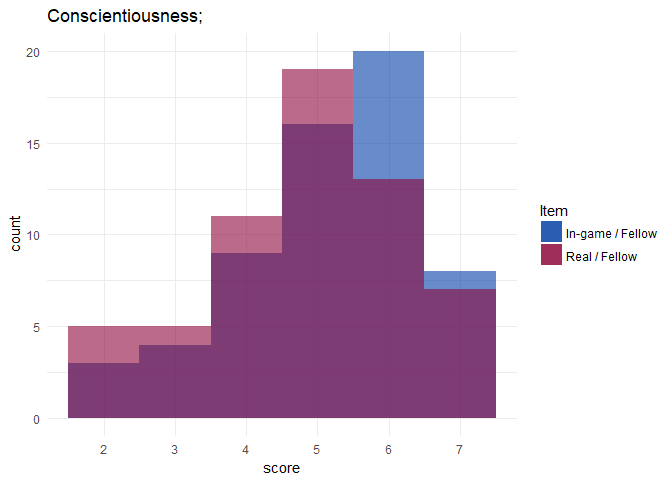
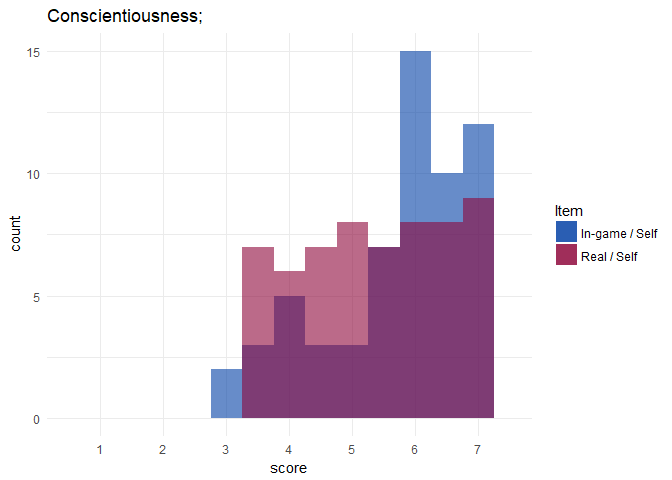
Update: scale and typo

diff --git a/report/report_1205.md b/report/report_1205.md
@@ -16,18 +16,24 @@ December 5, 2017
     -   [Conscientiousness](#conscientiousness-1)
     -   [Emotion stability](#emotion-stability-1)
     -   [Openness](#openness-1)
--   [In-game - Real - ideal / self](#in-game---real---ideal-self)
+-   [In-game - real - ideal / self](#in-game---real---ideal-self)
     -   [Extraversion](#extraversion-2)
     -   [Agreeableness](#agreeableness-2)
     -   [Conscientiousness](#conscientiousness-2)
     -   [Emotion stability](#emotion-stability-2)
     -   [Openness](#openness-2)
--   [In-game - Real / fellow](#in-game---real-fellow)
+-   [In-game - real / self](#in-game---real-self)
     -   [Extraversion](#extraversion-3)
     -   [Agreeableness](#agreeableness-3)
     -   [Conscientiousness](#conscientiousness-3)
     -   [Emotion stability](#emotion-stability-3)
     -   [Openness](#openness-3)
+-   [In-game - real / fellow](#in-game---real-fellow)
+    -   [Extraversion](#extraversion-4)
+    -   [Agreeableness](#agreeableness-4)
+    -   [Conscientiousness](#conscientiousness-4)
+    -   [Emotion stability](#emotion-stability-4)
+    -   [Openness](#openness-4)
 
 ``` r
 knitr::opts_chunk$set(
@@ -119,14 +125,14 @@ dist_personality <- function(DT, personality, types){
   
   make_hist <- function(type) {
     geom_histogram(mapping=aes_(x=as.name(sprintf("Person%s-%s", type, personality)), fill=toString(which(types == type))),
-                   binwidth=1, alpha=0.6)
+                   binwidth=0.5, alpha=0.6)
   }
   geom_hists <- lapply(types, make_hist)
   
   #Use a list to add ggplot components
   ggplot(data=DT[, targetColIndex, with=FALSE]) +
     geom_hists +
-    scale_x_continuous(breaks=seq(1, 7), minor_breaks=NULL, labels=seq(1, 7)) +
+    scale_x_continuous(breaks=seq(1, 7), minor_breaks=NULL, labels=seq(1, 7), limits=c(0.5, 7.5)) +
     labs(x="score", title=personaCodec[toString(personality)]) +
     scale_fill_manual(values=diverge_hcl(length(types)), name="Item", labels=unname(typeCodec[unlist(types)])) +
     theme_minimal()
@@ -219,7 +225,7 @@ dist_personality(DT, 5, list("OutS", "OutF"))
 
 ![](report_1205_files/figure-markdown_github-ascii_identifiers/unnamed-chunk-10-1.png)
 
-In-game - Real - ideal / self
+In-game - real - ideal / self
 -----------------------------
 
 ### Extraversion
@@ -262,7 +268,50 @@ dist_personality(DT, 5, list("InS", "OutS", "IdS"))
 
 ![](report_1205_files/figure-markdown_github-ascii_identifiers/unnamed-chunk-15-1.png)
 
-In-game - Real / fellow
+In-game - real / self
+---------------------
+
+### Extraversion
+
+``` r
+dist_personality(DT, 1, list("InS", "OutS"))
+```
+
+![](report_1205_files/figure-markdown_github-ascii_identifiers/unnamed-chunk-16-1.png)
+
+### Agreeableness
+
+``` r
+dist_personality(DT, 2, list("InS", "OutS"))
+```
+
+![](report_1205_files/figure-markdown_github-ascii_identifiers/unnamed-chunk-17-1.png)
+
+### Conscientiousness
+
+``` r
+dist_personality(DT, 3, list("InS", "OutS"))
+```
+
+![](report_1205_files/figure-markdown_github-ascii_identifiers/unnamed-chunk-18-1.png)
+
+### Emotion stability
+
+``` r
+dist_personality(DT, 4, list("InS", "OutS"))
+```
+
+![](report_1205_files/figure-markdown_github-ascii_identifiers/unnamed-chunk-19-1.png)
+
+### Openness
+
+``` r
+dist_personality(DT, 5, list("InS", "OutS"))
+```
+
+![](report_1205_files/figure-markdown_github-ascii_identifiers/unnamed-chunk-20-1.png)
+
+In-game - real / fellow
 -----------------------
 
 ### Extraversion
@@ -271,7 +320,7 @@ In-game - Real / fellow
 dist_personality(DT, 1, list("InF", "OutF"))
 ```
 
-![](report_1205_files/figure-markdown_github-ascii_identifiers/unnamed-chunk-16-1.png)
+![](report_1205_files/figure-markdown_github-ascii_identifiers/unnamed-chunk-21-1.png)
 
 ### Agreeableness
 
@@ -279,7 +328,7 @@ dist_personality(DT, 1, list("InF", "OutF"))
 dist_personality(DT, 2, list("InF", "OutF"))
 ```
 
-![](report_1205_files/figure-markdown_github-ascii_identifiers/unnamed-chunk-17-1.png)
+![](report_1205_files/figure-markdown_github-ascii_identifiers/unnamed-chunk-22-1.png)
 
 ### Conscientiousness
 
@@ -287,7 +336,7 @@ dist_personality(DT, 2, list("InF", "OutF"))
 dist_personality(DT, 3, list("InF", "OutF"))
 ```
 
-![](report_1205_files/figure-markdown_github-ascii_identifiers/unnamed-chunk-18-1.png)
+![](report_1205_files/figure-markdown_github-ascii_identifiers/unnamed-chunk-23-1.png)
 
 ### Emotion stability
 
@@ -295,7 +344,7 @@ dist_personality(DT, 3, list("InF", "OutF"))
 dist_personality(DT, 4, list("InF", "OutF"))
 ```
 
-![](report_1205_files/figure-markdown_github-ascii_identifiers/unnamed-chunk-19-1.png)
+![](report_1205_files/figure-markdown_github-ascii_identifiers/unnamed-chunk-24-1.png)
 
 ### Openness
 
@@ -303,4 +352,4 @@ dist_personality(DT, 4, list("InF", "OutF"))
 dist_personality(DT, 5, list("InF", "OutF"))
 ```
 
-![](report_1205_files/figure-markdown_github-ascii_identifiers/unnamed-chunk-20-1.png)
+![](report_1205_files/figure-markdown_github-ascii_identifiers/unnamed-chunk-25-1.png)
